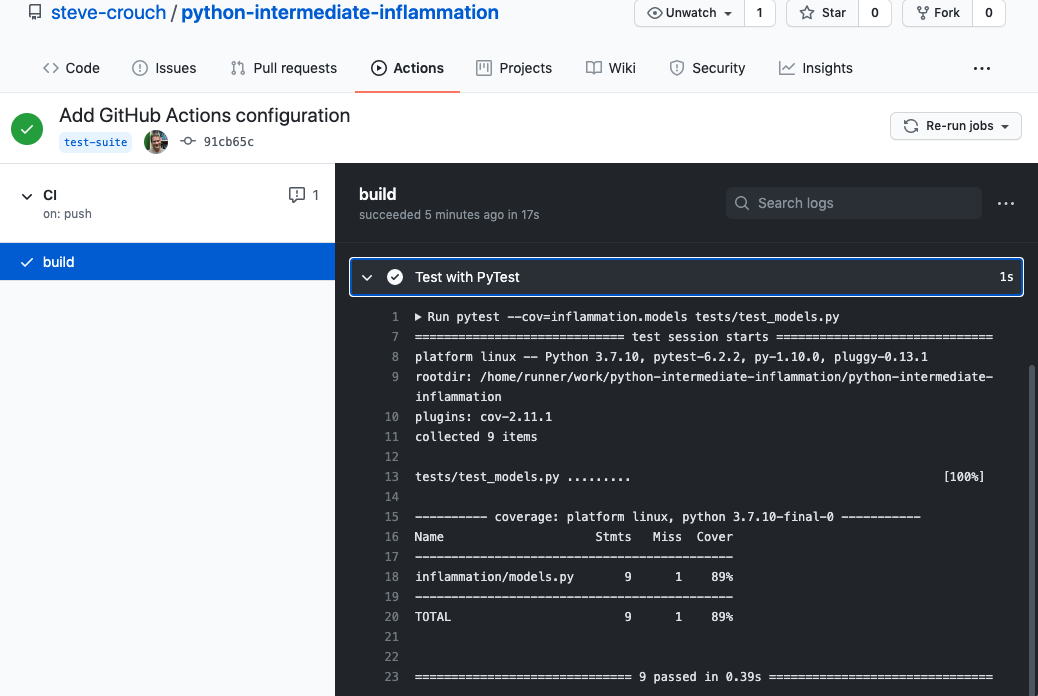
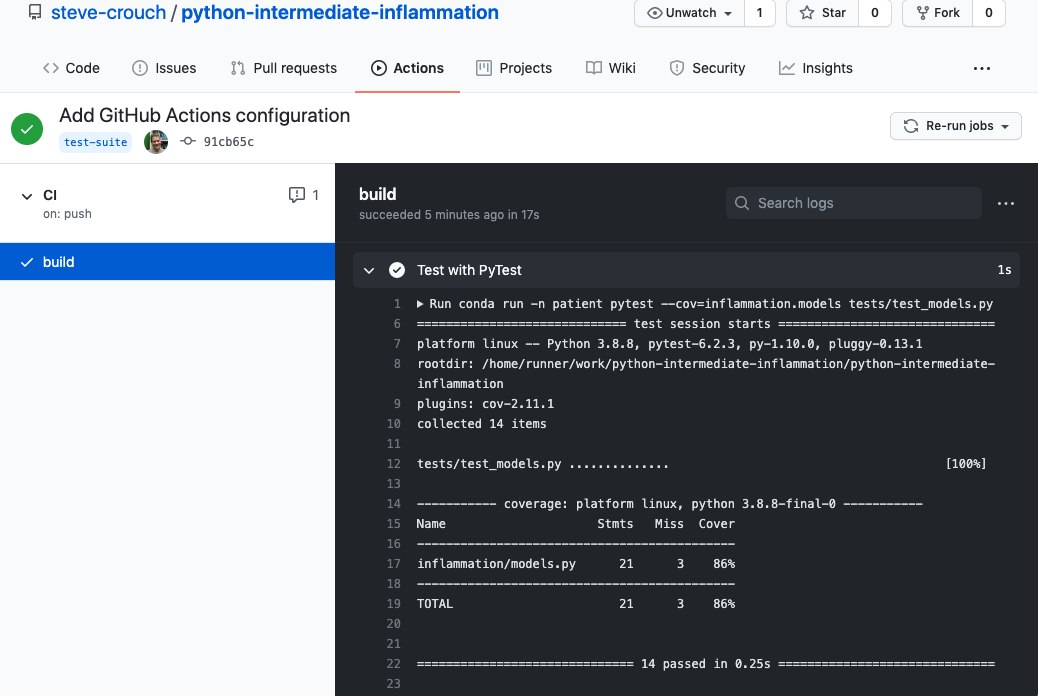
Update figures for Conda, fix typo

Changed region(s): [[0.3391, 0.3621, 0.9865, 0.9957], [0.9865, 0.5129, 1.0, 1.0], [0.894, 0.6638, 0.9557, 0.694]]

diff --git a/_episodes/15-continuous-integration-automated-testing.md b/_episodes/15-continuous-integration-automated-testing.md
@@ -21,7 +21,7 @@ So far we've been manually running our tests as we require. So once we've made a
 
 ## What is Continuous Integration?
 
-The automated testing we've done so far only taking into account the state of the repository we have on our own machines. In a software project involving multiple developers working and pushing changes on a repository, it would be great to know holistically how all these changes are affecting our codebase without everyone having to pull down all the changes and test them. If we also take into account the testing required on different target user plaforms for our software and the changes being made to many repository branches, the effort required to conduct testing at this scale can quickly become intractable for a research project to sustain.
+The automated testing we've done so far only takes into account the state of the repository we have on our own machines. In a software project involving multiple developers working and pushing changes on a repository, it would be great to know holistically how all these changes are affecting our codebase without everyone having to pull down all the changes and test them. If we also take into account the testing required on different target user plaforms for our software and the changes being made to many repository branches, the effort required to conduct testing at this scale can quickly become intractable for a research project to sustain.
 
 Continuous Integration (CI) aims to reduce this burden by further automation, and automation - wherever possible - helps us to reduce errors and makes predictable processes more efficient. The idea is that when a new change is committed to a repository, CI clones the repository, builds it if necessary, and runs any tests. Once complete, it presents a report to let you see what happened.
 
